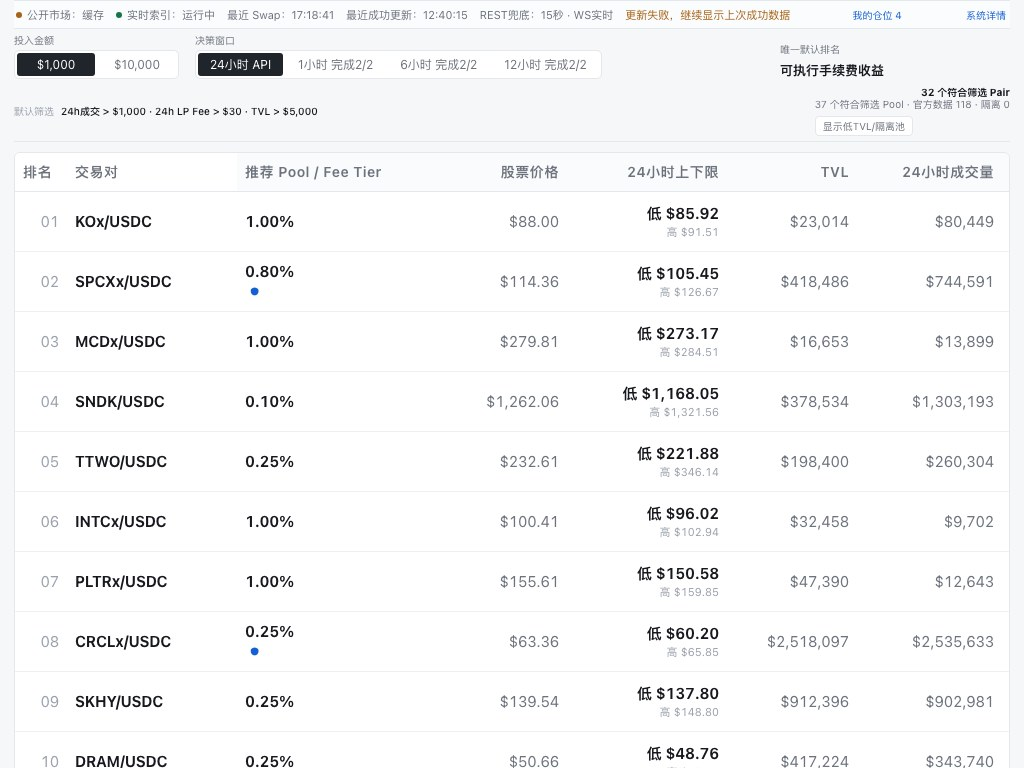
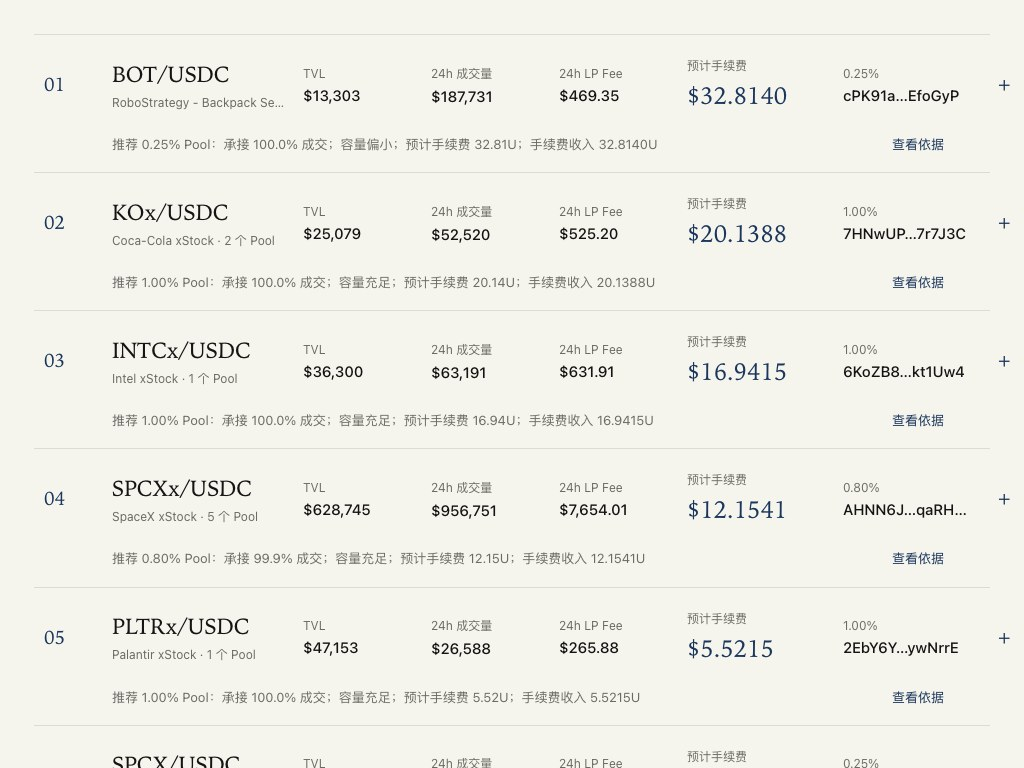
优化排名首页与局域网访问

diff --git a/app/globals.css b/app/globals.css
@@ -270,7 +270,7 @@ td small { display: block; max-width: 145px; margin-top: 4px; overflow: hidden; 
 .kami-hero aside { display: grid; gap: 8px; padding: 5px 0 5px 24px; border-left: 2px solid var(--terminal-blue); }
 .kami-hero aside span, .kami-hero aside small { color: var(--terminal-muted); font-size: 11px; }
 .kami-hero aside strong { font-family: "Iowan Old Style", Georgia, serif; font-size: 28px; font-weight: 500; }
-.kami-featured, .kami-ranking { padding-top: 48px; }
+.kami-featured, .kami-ranking { padding-top: 34px; }
 .kami-section-heading { display: grid; gap: 9px; margin-bottom: 20px; }
 .kami-section-heading h2 { margin: 0; font-size: 30px; line-height: 1.2; }
 .kami-section-heading p { margin: 0; color: var(--terminal-muted); font-size: 12px; }
@@ -288,17 +288,17 @@ td small { display: block; max-width: 145px; margin-top: 4px; overflow: hidden; 
 .kami-feature-reason { min-height: 42px; color: var(--terminal-muted); font-size: 11px; line-height: 1.55; }
 .kami-ranking-list { border-top: 1px solid var(--terminal-line); }
 .kami-ranking-item { border-bottom: 1px solid var(--terminal-line); }
-.kami-ranking-main { display: grid; grid-template-columns: 46px minmax(155px, 1.25fr) repeat(3, minmax(105px, .8fr)) minmax(120px, .85fr) 115px 24px; gap: 15px; align-items: center; width: 100%; padding: 18px 8px; border: 0; color: var(--terminal-ink); background: transparent; text-align: left; }
+.kami-ranking-main { display: grid; grid-template-columns: 52px minmax(175px, 1.25fr) repeat(3, minmax(112px, .8fr)) minmax(140px, .9fr) 124px 28px; gap: 16px; align-items: center; width: 100%; padding: 22px 10px; border: 0; color: var(--terminal-ink); background: transparent; text-align: left; }
 .kami-ranking-main:hover { background: #faf9f5; }
-.kami-list-rank { color: var(--terminal-blue); font: 500 15px/1 "Iowan Old Style", Georgia, serif; }
+.kami-list-rank { color: var(--terminal-blue); font: 500 19px/1 "Iowan Old Style", Georgia, serif; }
 .kami-list-asset, .kami-list-metric, .kami-list-estimate, .kami-list-pool { display: grid; gap: 5px; min-width: 0; }
-.kami-list-asset strong { font-size: 18px; }
-.kami-list-asset small, .kami-list-metric small, .kami-list-estimate small, .kami-list-pool small { overflow: hidden; color: var(--terminal-muted); font-size: 10px; text-overflow: ellipsis; white-space: nowrap; }
-.kami-list-metric strong, .kami-list-pool b { overflow: hidden; font-size: 12px; font-weight: 500; text-overflow: ellipsis; white-space: nowrap; }
-.kami-list-estimate strong { color: var(--terminal-blue); font-size: 19px; font-variant-numeric: tabular-nums; }
+.kami-list-asset strong { font-size: 22px; }
+.kami-list-asset small, .kami-list-metric small, .kami-list-estimate small, .kami-list-pool small { overflow: hidden; color: var(--terminal-muted); font-size: 12px; text-overflow: ellipsis; white-space: nowrap; }
+.kami-list-metric strong, .kami-list-pool b { overflow: hidden; font-size: 15px; font-weight: 500; text-overflow: ellipsis; white-space: nowrap; }
+.kami-list-estimate strong { color: var(--terminal-blue); font-size: 24px; font-variant-numeric: tabular-nums; }
 .kami-list-arrow { color: var(--terminal-blue); font: 400 21px/1 Georgia, serif; text-align: right; }
-.kami-list-reason { display: flex; justify-content: space-between; gap: 20px; padding: 0 40px 15px 69px; color: var(--terminal-muted); font-size: 11px; line-height: 1.55; }
-.kami-list-reason button { flex: 0 0 auto; padding: 0; border: 0; color: var(--terminal-blue); background: transparent; font-size: 11px; }
+.kami-list-reason { display: flex; justify-content: space-between; gap: 20px; padding: 0 46px 18px 78px; color: var(--terminal-muted); font-size: 13px; line-height: 1.55; }
+.kami-list-reason button { flex: 0 0 auto; padding: 0; border: 0; color: var(--terminal-blue); background: transparent; font-size: 13px; }
 .kami-ranking-item .pool-subtable { margin: 0 0 18px; border: 1px solid var(--terminal-line); border-radius: 10px; background: var(--terminal-paper); }
 .kami-footer { margin-top: 44px; padding-top: 18px; border-top: 1px solid var(--terminal-line); color: var(--terminal-muted); font-size: 10px; line-height: 1.6; }
 .ranking-loading, .ranking-error, .window-selection-notice { max-width: none; margin-top: 18px; }
@@ -311,7 +311,7 @@ td small { display: block; max-width: 145px; margin-top: 4px; overflow: hidden; 
   .kami-feature-card { grid-template-columns: 36px 1fr auto; align-items: start; }
   .kami-feature-yield { padding-top: 0; border-top: 0; text-align: right; }
   .kami-feature-metrics, .kami-feature-reason { grid-column: 2 / -1; }
-  .kami-ranking-main { grid-template-columns: 38px minmax(145px, 1.2fr) repeat(2, minmax(100px, .8fr)) 125px 24px; }
+  .kami-ranking-main { grid-template-columns: 42px minmax(155px, 1.2fr) repeat(2, minmax(105px, .8fr)) 135px 24px; }
   .kami-ranking-main .kami-list-metric:nth-of-type(4), .kami-list-pool { display: none; }
 }
 
@@ -320,16 +320,20 @@ td small { display: block; max-width: 145px; margin-top: 4px; overflow: hidden; 
   .kami-hero { padding: 44px 0 38px; }
   .kami-hero h1 { font-size: 43px; }
   .kami-hero p { margin-top: 20px; font-size: 13px; }
-  .kami-featured, .kami-ranking { padding-top: 38px; }
+  .kami-featured, .kami-ranking { padding-top: 20px; }
   .kami-feature-card { display: grid; grid-template-columns: 32px 1fr; gap: 12px; padding: 18px; }
   .kami-feature-yield, .kami-feature-metrics, .kami-feature-reason { grid-column: 2; text-align: left; }
   .kami-feature-yield { padding-top: 13px; border-top: 1px solid var(--terminal-line); }
   .kami-feature-yield strong { font-size: 28px; }
-  .kami-ranking-main { grid-template-columns: 32px minmax(0, 1fr) 112px 18px; gap: 10px; padding: 16px 2px; }
+  .kami-ranking-main { grid-template-columns: 34px minmax(0, 1fr) 120px 20px; gap: 10px; padding: 19px 2px; }
   .kami-ranking-main .kami-list-metric, .kami-ranking-main .kami-list-pool { display: none; }
   .kami-list-estimate { text-align: right; }
-  .kami-list-estimate strong { font-size: 17px; }
-  .kami-list-reason { align-items: start; padding: 0 2px 15px 44px; }
+  .kami-list-rank { font-size: 17px; }
+  .kami-list-asset strong { font-size: 20px; }
+  .kami-list-asset small, .kami-list-estimate small { font-size: 11px; }
+  .kami-list-estimate strong { font-size: 21px; }
+  .kami-list-reason { align-items: start; padding: 0 2px 17px 44px; font-size: 12px; }
+  .kami-list-reason button { font-size: 12px; }
   .kami-list-reason span { display: -webkit-box; overflow: hidden; -webkit-box-orient: vertical; -webkit-line-clamp: 2; }
 }
 

diff --git a/app/dashboard-client.tsx b/app/dashboard-client.tsx
@@ -131,17 +131,6 @@ function PoolSubtable({ pair, positionPoolIds, onCopied, showNet }: { pair: Rank
   </div>;
 }
 
-function FeaturedOpportunity({ pair, rank, onEvidence }: { pair: RankingPair; rank: number; onEvidence: () => void }) {
-  const pool = pair.recommendedPool ?? pair.allPools[0] ?? null;
-  return <button className="kami-feature-card" onClick={onEvidence} data-testid={`featured-rank-${rank}`}>
-    <span className="kami-rank">0{rank}</span>
-    <span className="kami-feature-title"><strong>{pair.symbol}</strong><small>{pair.underlying}</small></span>
-    <span className="kami-feature-yield"><small>1,000U 预计 24h 手续费</small><strong>{money(pair.estimatedFeeIncome.value, 4)}</strong></span>
-    <span className="kami-feature-metrics"><span>TVL <b>{money(pair.tvl ?? pool?.tvl ?? null, 0)}</b></span><span>24h LP Fee <b>{money(pair.lpFee ?? pool?.lpFee ?? null, 2)}</b></span></span>
-    <span className="kami-feature-reason">{pair.shortReason}</span>
-  </button>;
-}
-
 function RankingListItem({ pair, rank, expanded, onToggle, onEvidence, positionPoolIds, onCopied, showNet }: { pair: RankingPair; rank: number; expanded: boolean; onToggle: () => void; onEvidence: () => void; positionPoolIds: Set<string>; onCopied: (label: string) => void; showNet: boolean }) {
   const pool = pair.recommendedPool ?? pair.allPools[0] ?? null;
   const rowId = pair.symbol.replace(/[^a-zA-Z0-9]+/g, "-");
@@ -247,16 +236,11 @@ export default function DashboardClient({ initialSnapshot, initialRanking }: { i
   const showNet = ranking?.rankingBasis === "NET_PROFIT";
   const showSelectionNotice = Boolean(rankingMatches && ranking && (ranking.rankingStatus !== "ACTIVE" || ranking.fallbackWindow));
   return <main className="terminal-shell">
-    <header className="kami-hero">
-      <span className="kami-overline">RWA LIQUIDITY NOTE · 1,000U</span>
-      <div className="kami-hero-grid"><div><h1>今天，流动性把机会放在哪里？</h1><p>基于 Raydium RWA/USDC 官方 24 小时数据，按 1,000U 投入后的可执行手续费收入排序。数字是决策的起点，不是收益承诺。</p></div><aside><span>今日研究口径</span><strong>1,000 USDC</strong><small>24h 官方市场基线</small></aside></div>
-    </header>
     {copiedMessage ? <div className="copy-toast" role="status">{copiedMessage}</div> : null}
     {loading ? <div className="ranking-loading" data-testid="ranking-loading">正在刷新 1,000U 排名</div> : null}
     {error ? <div className="ranking-error" data-testid="ranking-error">{error}</div> : null}
     {showSelectionNotice && ranking ? <div className={`window-selection-notice ${ranking.rankingStatus.toLowerCase()}`} data-testid="window-selection-notice"><strong>{ranking.selectionNotice}</strong>{ranking.fallbackWindow ? <span>排名依据：{ranking.rankingWindowStatus.label} · 不是 {ranking.windowStatus.label} 排名</span> : null}</div> : null}
-    {pairs.length > 0 ? <section className="kami-featured"><div className="kami-section-heading"><span>00 · TOP THREE</span><h2>优先查看</h2></div><div className="kami-feature-grid">{pairs.slice(0, 3).map((pair, index) => <FeaturedOpportunity key={pair.pairId} pair={pair} rank={index + 1} onEvidence={() => setEvidencePairId(pair.pairId)} />)}</div></section> : null}
-    <section className="kami-ranking"><div className="kami-section-heading"><span>01 · FULL RANKING</span><h2>1,000U 手续费排名</h2><p>点击任意一行展开 Pool 级证据。</p></div><div className="kami-ranking-list">{displayPairs.map((pair) => <RankingListItem key={pair.pairId} pair={pair} rank={pairs.findIndex((item) => item.pairId === pair.pairId) + 1} expanded={expandedPair === pair.pairId} onToggle={() => setExpandedPair((value) => value === pair.pairId ? null : pair.pairId)} onEvidence={() => setEvidencePairId(pair.pairId)} positionPoolIds={positionPoolIds} onCopied={copied} showNet={showNet} />)}</div></section>
+    <section className="kami-ranking"><div className="kami-ranking-list">{displayPairs.map((pair) => <RankingListItem key={pair.pairId} pair={pair} rank={pairs.findIndex((item) => item.pairId === pair.pairId) + 1} expanded={expandedPair === pair.pairId} onToggle={() => setExpandedPair((value) => value === pair.pairId ? null : pair.pairId)} onEvidence={() => setEvidencePairId(pair.pairId)} positionPoolIds={positionPoolIds} onCopied={copied} showNet={showNet} />)}</div></section>
     {!loading && displayPairs.length === 0 ? <div className="terminal-empty">{error || (selectedStatus.status === "UNAVAILABLE" ? "等待当前窗口数据源" : "等待可执行排名数据")}<small>{selectedStatus.reason ?? "官方 API 市场数据仍可在公开模式下使用"}</small></div> : null}
     <footer className="kami-footer">数据来源：Raydium 官方 API · 预计值未扣除无常损失、进出滑点与再平衡成本。</footer>
     {evidencePair ? <EvidenceDrawer pair={evidencePair} onClose={() => setEvidencePairId(null)} /> : null}

diff --git a/apps/backend/src/server.ts b/apps/backend/src/server.ts
@@ -132,6 +132,13 @@ app.get("/api/rankings", async (request, reply) => {
   return reply.header("cache-control", "no-store").header("x-data-version", String(projection.projectionVersion)).send(normalizeNullSemantics(ranking));
 });
 
+app.get("/api/ping", async (_request, reply) => reply.header("cache-control", "no-store").send({
+  ok: true,
+  host,
+  port,
+  lan: process.env.LP_ENABLE_LAN === "1",
+}));
+
 app.get("/api/health", async (_request, reply) => {
   const projection = currentProjection();
   const integrity = checkEventDatabaseIntegrity();

diff --git a/README.md b/README.md
@@ -4,9 +4,11 @@
 
 ## 界面预览
 
-![1,000U 研究简报](terminal-e2e-1000u.jpg)
+![桌面端排名](terminal-e2e-desktop.jpg)
 
-![手机端研究简报](terminal-e2e-mobile.jpg)
+![iPad 端排名](terminal-e2e-ipad.jpg)
+
+![手机端排名](terminal-e2e-mobile.jpg)
 
 > GitHub 仓库用于在手机上查看代码、文档和界面快照。系统依赖常驻后端、Solana/Raydium 数据源与 SQLite，因此不是可直接托管在 GitHub Pages 的纯静态页面。
 
